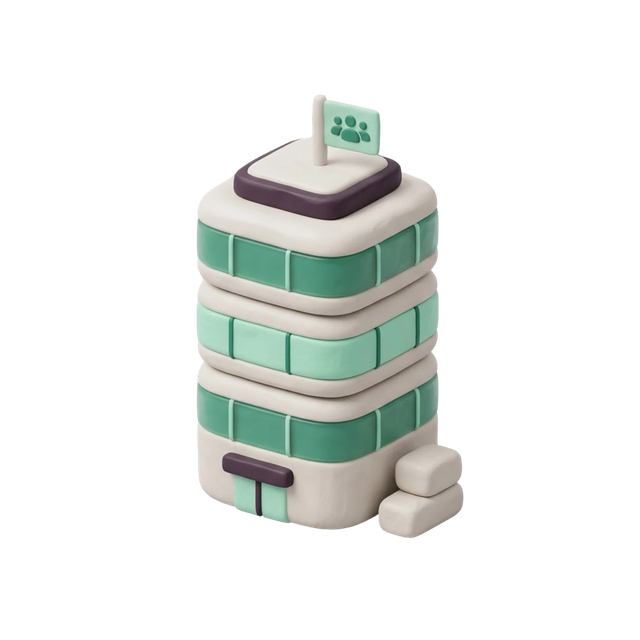
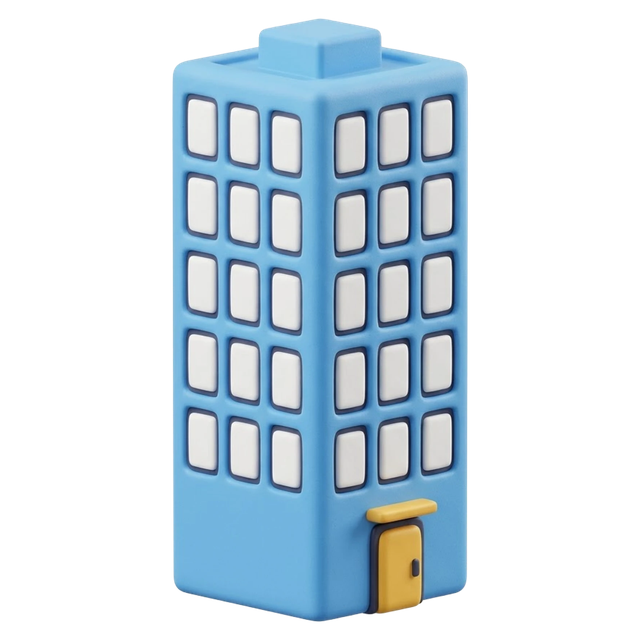
Clay v2: enterprise office tower; Enterprise set complete

diff --git a/docs/CLAY-PROMPTS-V2.md b/docs/CLAY-PROMPTS-V2.md
@@ -296,7 +296,11 @@ off-white = paper, neutral parts.
 > Subject: a chunky rounded open door in its frame, turned about 20°, the door swung wide open inward, a warm glow of light from inside; in front of it on the floor a thick rounded welcome mat. Off-white frame (#F4F1EC), caramel door (#E0A76A), a gold mat (#FFC94D), a sky blue floor inside the doorway (#6CB8F0). No people, no text on the mat. Perfectly smooth moulded surfaces.
 
 **enterprise**
-> Subject: a small chunky rounded office tower, turned about 20°, three floors with thick window bands and a flat roof. Sky blue body (#6CB8F0), white window bands, a gold door (#FFC94D).
+> ✅ Round 2 approved (2026-10-30): reads as an office tower. Tall and slim, so it looks narrower than its neighbours in a square card. Installed.
+>
+> Round 1 (2026-10-30): finish right, but squat rounded stacked rings read as a database server or a food container (the cliché we removed from database), and the many thin window lines vanish at 56px.
+>
+> Subject: a slim office skyscraper, about twice as tall as it is wide, a rectangular box with straight sides and softly rounded edges, turned about 20° so two faces show; each face has a grid of chunky square windows (3 across, 4 rows), a flat roof with a small raised block on top. Sky blue body (#6CB8F0), white window bands, a gold door (#FFC94D).
 
 ### Company (About, Culture, Careers)
 
